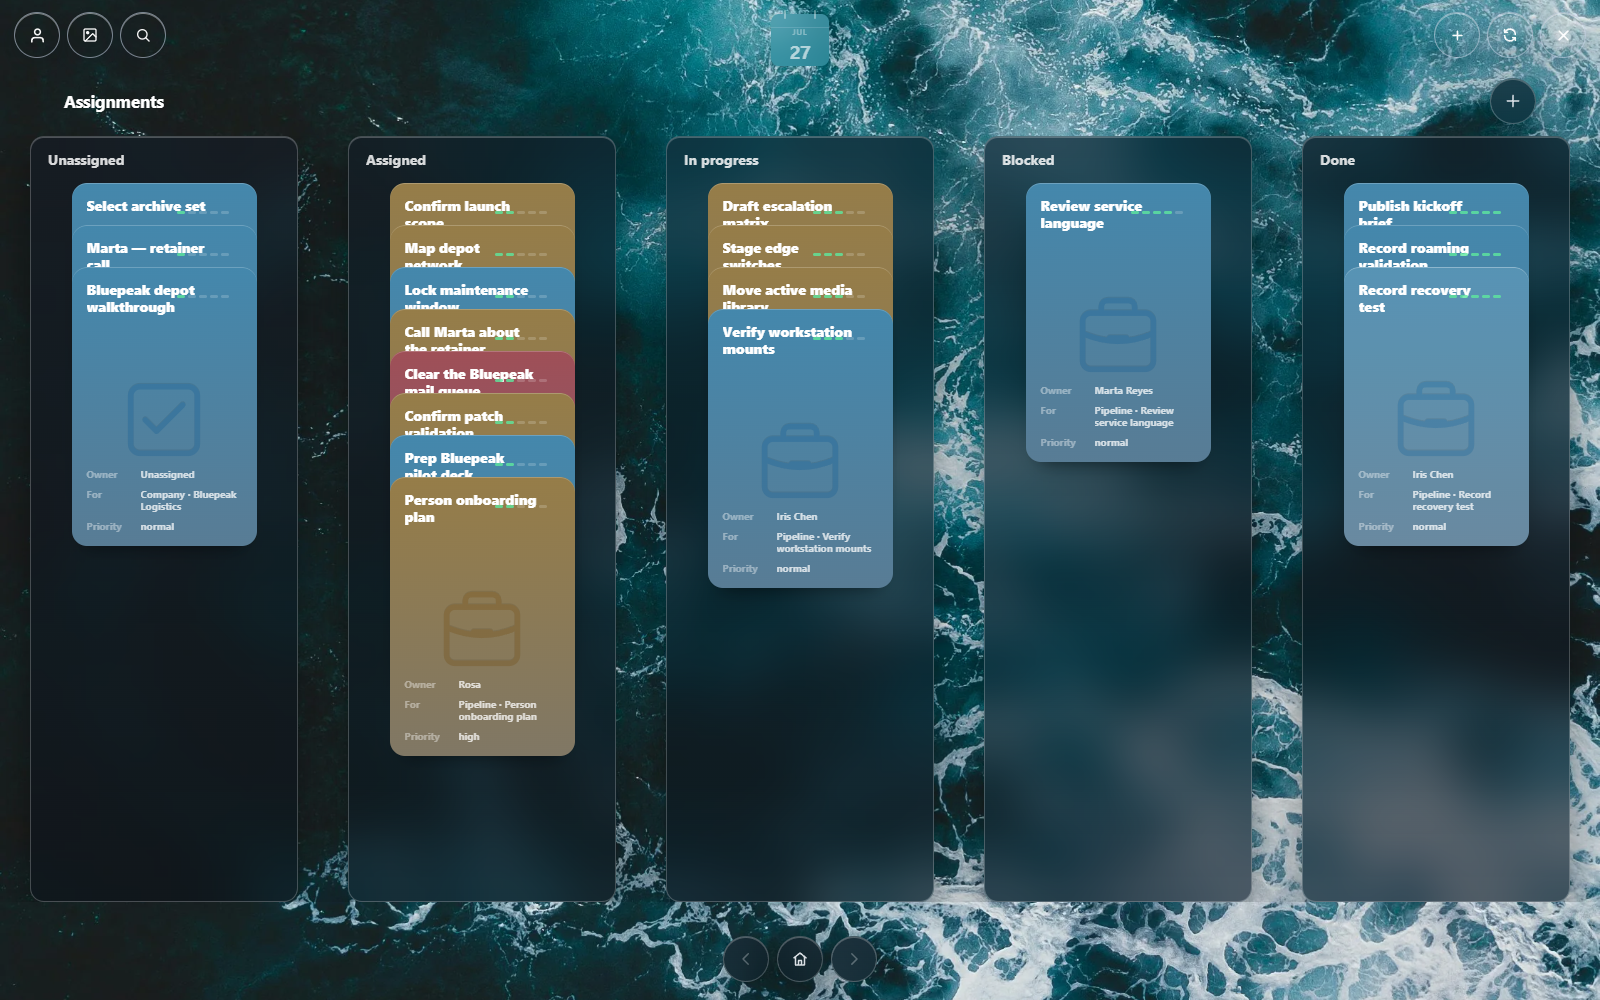
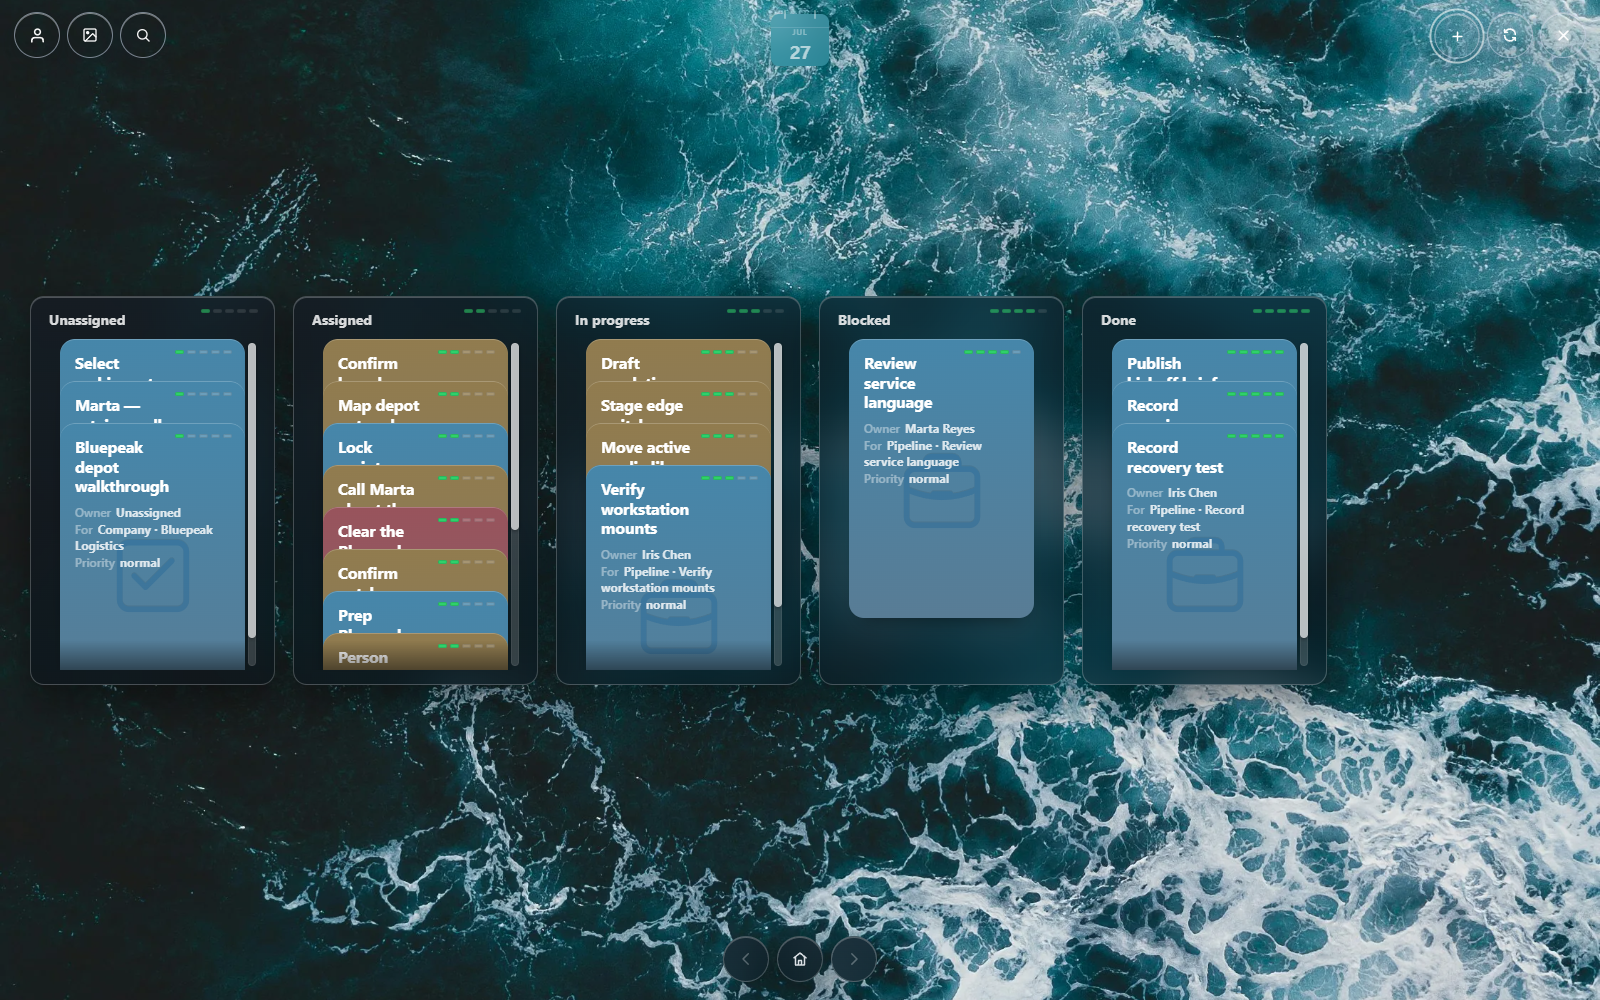
test: lock canonical assignment refinement contract

diff --git a/tools/visual/ui-refinement-smoke.js b/tools/visual/ui-refinement-smoke.js
@@ -282,6 +282,7 @@ async function main() {
         id: card.dataset.plannerCard || card.dataset.id || '',
         kind: card.dataset.cardKind || '',
         fit: card.dataset.cardContentFit || '',
+        bodyPresent: !!body,
         bodyAttribute: !!body?.hasAttribute('data-card-fit-body'),
         entries: entries.length,
         entryDetails: entries.map((entry) => {
@@ -812,14 +813,31 @@ async function main() {
     await page.waitForFunction(() => document.querySelectorAll('[data-crm-theater="assignments"]:not([hidden]) .tk-zcard[data-id]').length > 0);
     await sleep(300);
     const assignmentCards = await semanticCardAudit('[data-crm-theater="assignments"]:not([hidden]) .tk-zcard[data-id]');
+    const assignmentArchitecture = await page.evaluate(() => ({
+      legacyFurniture: document.querySelectorAll('.crm-assignment-bucket,.crm-assignment-work-card').length,
+      phantomScaffolds: document.querySelectorAll(
+        '[data-crm-theater="assignments"] > .tk-stacks,'
+        + '[data-crm-theater="assignments"] > .tk-scrim,'
+        + '[data-crm-theater="assignments"] .tk-deck',
+      ).length,
+      contract: window.crmAssignments.contract?.() || null,
+    }));
     await check('Assignment cards consume transferable semantic/fit architecture', () => {
       invariant(assignmentCards.length > 0, 'No Assignment cards were available');
-      invariant(document.querySelectorAll('.crm-assignment-bucket,.crm-assignment-work-card').length === 0, 'Legacy Assignment furniture is still mounted');
-      invariant(!document.querySelector('[data-crm-theater="assignments"] > .tk-stacks,[data-crm-theater="assignments"] > .tk-scrim,[data-crm-theater="assignments"] .tk-deck'), 'Zone-only Assignment mounted a phantom stack/scrim scaffold');
-      invariant(window.crmAssignments.contract?.().stageAuthority === 'source', 'Assignment placement is not source-authoritative');
+      invariant(assignmentArchitecture.legacyFurniture === 0, 'Legacy Assignment furniture is still mounted');
+      invariant(assignmentArchitecture.phantomScaffolds === 0, 'Zone-only Assignment mounted a phantom stack/scrim scaffold');
+      invariant(assignmentArchitecture.contract?.workflowKind === 'lifecycle', 'Assignment does not use the canonical lifecycle workflow');
+      invariant(
+        assignmentArchitecture.contract?.horizontalZones === true
+          && assignmentArchitecture.contract?.horizontalZoneRows === 1,
+        'Assignment buckets do not use the canonical horizontal-zone contract',
+      );
+      invariant(assignmentArchitecture.contract?.stageAuthority === 'source', 'Assignment placement is not source-authoritative');
+      invariant(assignmentArchitecture.contract?.atomicSourceMove === true, 'Assignment movement bypasses the canonical atomic source seam');
+      invariant(assignmentArchitecture.contract?.deckScaffold === false, 'Assignment mounted a second deck renderer');
       assignmentCards.forEach((card) => {
         invariant(card.mark?.svg, `${card.id} has no semantic mark`);
-        invariant(card.bodyAttribute && card.entries >= 4, `${card.id} does not expose adaptive fit entries`);
+        invariant(card.bodyPresent && card.entries >= 3, `${card.id} does not expose adaptive fit entries`);
         invariant(['full', 'adaptive'].includes(card.fit), `${card.id} fit ended as "${card.fit}"`);
         invariant(card.overflow <= 1, `${card.id} body overflows by ${card.overflow}px`);
         invariant(card.title?.whiteSpace !== 'nowrap', `${card.id} title still truncates immediately`);
@@ -827,10 +845,17 @@ async function main() {
       return { cards: assignmentCards.length, semanticTypes: [...new Set(assignmentCards.map((card) => card.mark.type))] };
     });
     const assignmentControls = await secondaryControlAudit();
+    const assignmentAddMenu = await openAddMenu();
+    await closeAddMenu();
     await check('Assignment controls inherit the complete secondary-control contract', () => {
       const summary = assertSecondaryControlContract(assignmentControls, bucketAcrylic, 2);
-      invariant(assignmentControls.some(({ label }) => label === 'Create assignment'), 'Assignment Add control was not found');
-      return summary;
+      invariant(
+        assignmentAddMenu.actions.length === 1
+          && assignmentAddMenu.actions[0].id === 'assignment'
+          && assignmentAddMenu.actions[0].label === 'Assignment',
+        `Assignment + exposed the wrong actions: ${assignmentAddMenu.actions.map(({ id }) => id).join(',')}`,
+      );
+      return { ...summary, addActions: assignmentAddMenu.actions.map(({ id }) => id) };
     });
     await screenshot('07-assignments-semantic-fit.png');
 
